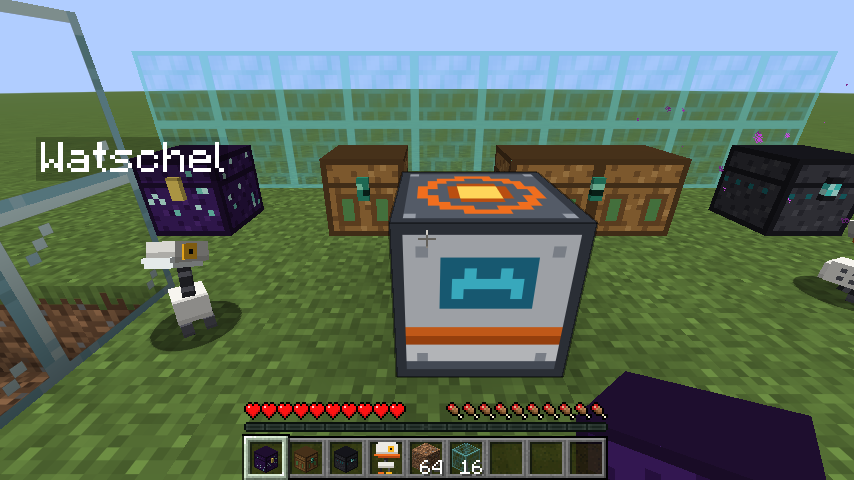
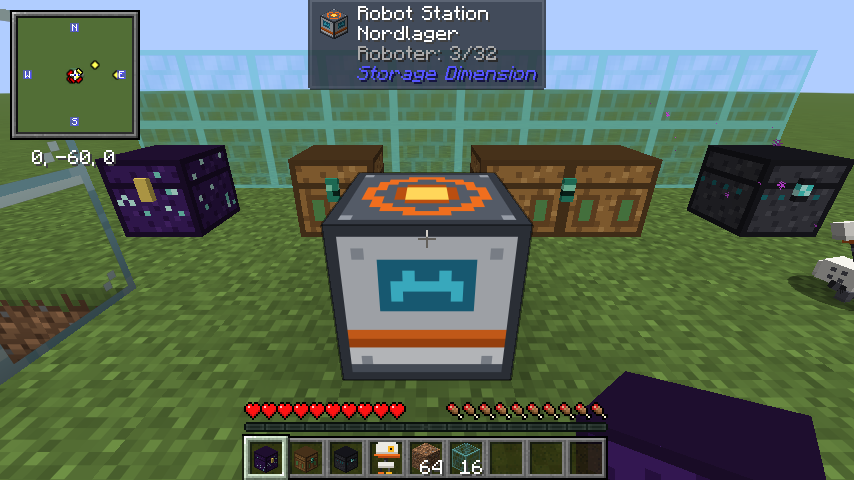
README: reorganised for 0.5.0 with table of contents, fresh screenshots, recipe table and settings
Claude-Session: https://claude.ai/code/session_01PrmjDFV55ANqJ3JywmcmfC

diff --git a/README.md b/README.md
@@ -1,135 +1,205 @@
 # Storage Dimension
 
-Ein Fabric-Mod für **Minecraft 26.1.2**. Seit Version 0.4.0 (Sammelroboter, eigene Texturen) muss `storage-dimension-*.jar` **auf dem Server und bei allen Spielern** liegen.
+Ein Fabric-Mod für **Minecraft 26.1.2**: ein gemeinsamer Lagerraum in einer eigenen Dimension, ein ME-Speicher ohne Stapelgrenzen und kleine Sammelroboter, die herumliegende Items einsammeln und einlagern.
 
-**Download:** Die fertigen Dateien gibt es unter [Releases](https://github.com/Nomisimo/Storage-Dimension/releases). Dort steht auch, welche Datei wohin gehört.
+**Aktuelle Version: 0.5.0.** Die fertigen Dateien gibt es unter [Releases](https://github.com/Nomisimo/Storage-Dimension/releases), dort steht auch, welche Datei wohin gehört.
 
 ![Dimensionskiste, Filterkiste, doppelte Filterkiste und ME-Terminal, davor der Sammelroboter](docs/screenshots/kisten-und-roboter.png)
 
-## Was der Mod macht
+## Inhalt
 
-- **Dimensionskiste:** Eine violette Kiste mit Endsternen. Wer sie öffnet und Zugriff auf den Speicher hat, wird in den Lagerraum in der Storage Dimension gezogen. Es können beliebig viele Spieler gleichzeitig drin sein. Wer keinen Zugriff hat, sieht nur ein leeres Kisten-Inventar, in dem nichts gelagert werden kann.
-- **ME-Speicher:** Die Enderkiste im Raum ist das Terminal. Dort liegen alle Items ohne Stapel- oder Slot-Grenzen. Die genaue Menge steht im Namen jedes Items (z. B. „Bruchstein × 1.234“) und in kleiner Schrift auf dem Symbol, ohne Obergrenze (ab 1.000 abgekürzt, z. B. 1k, 1.2k, 45k oder 1.2M).
-  - Linksklick nimmt einen Stapel, Rechtsklick einen halben, Shift-Klick schiebt ihn ins Inventar.
-  - Item auf dem Cursor in das Terminal klicken oder Shift-Klick im eigenen Inventar lagert ein.
-  - Unten im Fenster: **◀ / ▶** blättern, **Einlagern** lagert das ganze Inventar (ohne Hotbar) ein, daneben stehen Seite, Sorten und Gesamtmenge. Ohne die Mod auf dem Client sind es Item-Knöpfe (Pfeile, Trichter).
+- [Installation](#installation)
+- [Speicher](#speicher): Dimensionskiste, ME-Speicher, ME-Terminal, Filterkiste, Trichter und Maschinen
+- [Sammelroboter](#sammelroboter): Roboter, Roboter-Station, Rückruf, Roboter-Barriere
+- [ME-Rucksack und Traveler's Backpack](#me-rucksack-und-travelers-backpack)
+- [Rezepte](#rezepte)
+- [Befehle](#befehle)
+- [Einstellungen](#einstellungen)
+- [Selbst bauen](#selbst-bauen)
 
-  ![ME-Terminal mit Suchfeld, Sortier-Knopf und Knöpfen zum Blättern und Einlagern](docs/screenshots/terminal-knoepfe.png)
-  - **Suche und Sortierung:** Oben links im Fenster sitzt ein Suchfeld, rechts daneben der Sortier-Knopf (*Menge* / *A–Z*). Gesucht wird beim Tippen.
-  - Die Suche ist beim nächsten Öffnen wieder leer, die Sortierung bleibt.
-  - Mit [JEI](https://modrinth.com/mod/jei) sitzt zwischen Suchfeld und Sortier-Knopf ein kleiner Schalter **J**. Ist er grün, sind die Suche im Terminal und die JEI-Suchleiste gekoppelt: was in einer steht, steht auch in der anderen. Die Einstellung bleibt gespeichert (`jeiSearchSync` in `config/storagedim.json` beim Spieler).
-- **Hopper-Eingang:** Trichter, die in eine Dimensionskiste oder Filterkiste zeigen, liefern direkt in den Speicher. Zum Anbauen mit einem Item in der Hand schleichen.
-- **Maschinen anderer Mods (z. B. Tech Reborn, Advanced Reborn):** Dimensions- und Filterkisten sind über die Fabric-Transfer-API angebunden. Was eine Maschine hineinschiebt, landet direkt im ME-Speicher, und aus einer Filterkiste können Maschinen die Filter-Items herausziehen.
-- **Sammelroboter:** Ein kleiner Roboter mit Schnabel. Er sammelt herumliegende Items ein, immer einen Stapel im Schnabel, und bringt ihn zur nächsten Dimensionskiste, zum ME-Terminal oder zu einer passenden Filterkiste. Er hüpft bis zu zwei Blöcke hoch, auch über Zäune und Mauern, und stellt sich zum Aufheben direkt auf das Item. Roboter-Barrieren überspringt er nicht. Aus Booten und Loren steigt er sofort wieder aus.
-  - **Nur mit Station:** Ein Roboter lässt sich erst hinstellen, wenn er in einer Roboter-Station eingestellt wurde (siehe unten). Danach folgt er immer den Einstellungen seiner Station; was dort geändert wird, gilt sofort für alle ihre Roboter. Am Roboter selbst lässt sich nichts mehr umstellen.
-  - **Schwarm:** Mehrere Roboter stimmen sich ab. Jeder holt ein anderes Item, es rennen nie alle zum selben.
-  - **Stimmung:** Ohne Arbeit laufen die Roboter zu ihrer Station, setzen sich hin und schauen sich fröhlich um, jeder in seinem eigenen Takt. Erreicht ein Roboter seine Station nicht oder steht in seiner Reichweite keine Kiste, setzt er sich hin und schaut auf den Boden, und links und rechts von seinem Namen erscheint ein rotes 🚫 (Fehler).
-  - **Wasser:** Roboter tauchen. Unter Wasser laufen sie am Grund entlang und tragen einen Taucherhelm: einen Glaskasten um den ganzen Kopf, an der Oberfläche schwimmen sie schnell und ziehen eine Spritzspur hinter sich her. Ertrinken können sie nicht.
-  - **Regen:** Draußen ohne Dach über sich spannen sie einen kleinen Regenschirm in ihrer Farbe auf.
-  - Bevor er losläuft, plant er den ganzen Weg und folgt ihm. Gibt es keinen Weg (eingemauert, hinter einer Roboter-Barriere, über Lava), lässt er das Item sofort für eine Minute in Ruhe und nimmt das nächste. Bleibt er unterwegs trotzdem hängen, gibt er nach 5 Sekunden auf. Kisten erreicht er bis etwa drei Blöcke über dem Boden.
-  - Will er zu seiner Station und kommt 3 Minuten lang nicht näher, teleportiert er sich hin.
-  - Neu fallengelassene Items bemerkt er nach spätestens einer halben Sekunde.
-  - Schleichen + Rechtsklick mit leerer Hand nimmt ihn wieder auf, samt dem Item im Schnabel.
-  - Nur Spieler können ihm schaden. Er arbeitet nur in geladenen Chunks.
-  - Mit [Jade](https://modrinth.com/mod/jade) zeigt der Blick auf einen Roboter seine Station, Reichweite, Filter und was er gerade tut (oder welchen Fehler er hat). Mit [Xaero's Minimap](https://modrinth.com/mod/xaeros-minimap) erscheinen die Roboter mit ihrem Gesicht auf der Karte.
+## Installation
 
-  <img src="docs/screenshots/minimap-icon.png" width="64" alt="Roboter-Icon für Xaero's Minimap">
+`storage-dimension-0.5.0.jar` muss **auf dem Server und bei allen Spielern** im Ordner `mods` liegen.
 
-  ![Jade zeigt Station, Filter und Zustand eines Roboters](docs/screenshots/roboter-jade.png)
+1. Fabric Loader 0.19.5 oder neuer und [Fabric API](https://modrinth.com/mod/fabric-api) für 26.1.2 auf Server und Clients installieren.
+2. `storage-dimension-0.5.0.jar` (nicht die `-sources.jar`) in den `mods`-Ordner legen.
+3. Optional das [Traveler's-Backpack-Add-on](#me-rucksack-und-travelers-backpack) `storagedim-tb-0.5.0.jar` dazulegen, ebenfalls auf Server und Clients.
+4. Server starten. Die Dimension `storagedim:storage` wird automatisch angelegt, die Daten liegen in `world/storagedim.json`.
 
-  ![Bei Regen spannen die Roboter ihren Schirm auf](docs/screenshots/roboter-regenschirm.png)
+**Passt gut dazu (optional):** [JEI](https://modrinth.com/mod/jei) (Rezepte, Suche koppeln, „+“ im Rucksack), [Jade](https://modrinth.com/mod/jade) (Infos zu Robotern und Stationen), [Xaero's Minimap](https://modrinth.com/mod/xaeros-minimap) (Roboter auf der Karte). Getestet mit JEI 29.47.0.111, Jade 26.1.11 und Xaero's Minimap 26.6.2.
 
-  ![Ein Roboter taucht mit Glashelm](docs/screenshots/roboter-tauchen.png)
+### Als Modrinth-Pack
 
-- **Roboter-Station:** Ein Block, der Sammelroboter einstellt. Rechtsklick öffnet ein eigenes Fenster mit Knöpfen und Textfeldern:
-  - oben der **Name der Station** (erscheint auch in Jade und im Tooltip der Roboter),
-  - darunter bis zu 9 **Filter-Items** (Item draufklicken setzt, leere Hand entfernt) und der Knopf, ob die Roboter **nur den Filter** oder **alles außer dem Filter** sammeln,
-  - **Reichweite** mit − und + (1 bis 10 Chunks, gemessen ab der Station), **Farbe** (Klick schaltet weiter) und **Zurückrufen**,
-  - der **Robotername**: Bekommen mehrere Roboter denselben Namen, werden sie durchnummeriert (Quak1, Quak2 …). Das Benennen kostet keine Level.
-  - Roboter in den Eingang (links vom Pfeil) legen, er kommt rechts eingestellt wieder heraus. Die Einstellungen stehen im Tooltip des Roboter-Items.
-  - Rechts daneben steht die **Liste aller Roboter** der Station (höchstens 32) mit Entfernung und dem, was jeder gerade tut. Mausrad blättert.
-  - **Zurückrufen:** Alle Roboter der Station laufen sofort los, die Station zeigt „Rückruf: auf dem Weg“. Angekommen sind sie im 3×3-Feld um die Station (ab 21 Robotern 5×5). Teleportiert wird nur, wer keinen Weg zur Station findet. Danach sitzen alle eine Minute an der Station und arbeiten dann normal weiter. Bis dahin schauen sie den Spieler an, der sie gerufen hat.
+`storage-dimension.mrpack` liegt in jedem [Release](https://github.com/Nomisimo/Storage-Dimension/releases). Es enthält Fabric API (wird von Modrinth geladen) und die Storage-Dimension-Jar, Minecraft 26.1.2 und Fabric Loader 0.19.5 sind festgelegt. Spieler können dasselbe Pack in der Modrinth-App installieren.
 
-  ![Nach dem Rückruf schauen die Roboter den Spieler an, der gerufen hat](docs/screenshots/roboter-rueckruf-schauen.png)
-  - Ein eingestellter Roboter, der außerhalb der Reichweite seiner Station hingestellt wird, läuft zuerst zur Station und arbeitet dann los.
+- **Server-Hoster mit Modpack-Upload:** Neuen Server mit „Modpack hochladen / .mrpack“ anlegen und die Datei auswählen.
+- **Eigener Server:** Mit [mrpack-install](https://github.com/nothub/mrpack-install): `mrpack-install storage-dimension.mrpack --server-dir server`. Das lädt den Fabric-Server und Fabric API und legt die Mod ab.
 
-  ![Fenster der Roboter-Station mit Roboterliste](docs/screenshots/roboter-station-menu.png)
-
-  ![Nach dem Zurückrufen sind alle „auf dem Weg“; der eingemauerte Quak3 findet keinen Weg und zeigt 🚫, bis er sich zur Station teleportiert](docs/screenshots/roboter-station-rueckruf.png)
-
-  ![Roboter warten fröhlich an ihrer Station](docs/screenshots/roboter-station.png)
-
-  ![Ein Roboter ohne Kiste in Reichweite: 🚫 links und rechts von seinem Namen](docs/screenshots/roboter-traurig.png)
-
-- **Roboter-Barriere:** Ein durchsichtiger Plasma-Schild. Spieler, Tiere und Items gehen einfach hindurch, Sammelroboter nicht, und sie planen auch keinen Weg hindurch oder darüber. Gut für Türen und Bereiche, aus denen die Roboter nichts holen sollen. Rezept: 8 Glas um eine Amethystscherbe ergibt 8 Barrieren.
-
-  ![Roboter-Barriere als Wand hinter den Kisten](docs/screenshots/roboter-barriere.png)
-
-  ![Der Sammelroboter holt Items und bringt sie zu den Kisten](docs/screenshots/roboter-bei-der-arbeit.png)
-
-- **Werkbank und Ofen** stehen im Raum, gecraftet wird direkt in der Dimension.
-- **Gemeinsamer Speicher:** Standardmäßig teilen sich alle Spieler einen Speicher und einen Raum. Mit `"sharedStorage": false` in `config/storagedim.json` bekommt jeder seinen eigenen, der sich per `/storage teilen` freigeben lässt.
-- **Filterkiste:** Eine Kiste, die nur bis zu 7 ausgewählte Items aus dem ME-Speicher zeigt, eins pro Rahmen im Rezept. Ist ein Filter-Item verzaubert (auch ein Verzauberungsbuch), zählen nur Items mit genau denselben Verzauberungen. Zwei Filterkisten nebeneinander werden eine Doppelkiste mit 14 Filter-Plätzen (eine normale Kiste verbindet sich nie mit einer Filterkiste). Wird eine Hälfte abgebaut, behält die andere die ersten 7 Filter. Schleichen + Rechtsklick mit leerer Hand öffnet die Filter: ein Item auf einen Platz legen setzt den Filter, Klick mit leerer Hand entfernt ihn. Normaler Rechtsklick öffnet die Kiste, dort kann man die gefilterten Items herausnehmen und nur passende einlagern. Trichter, die hineinzeigen, liefern auch hier direkt in den Speicher. Ein Trichter **unter** der Filterkiste zieht die Filter-Items aus dem ME-Speicher heraus (bis zu ein Stapel pro Filter liegt dafür bereit und geht zurück in den Speicher, wenn ihn keiner abholt).
-- **ME-Terminal:** Eine uralte Kiste aus Tiefenschiefer mit Sculk-Rune. Hingestellt öffnet sie per Rechtsklick direkt den ME-Speicher, ohne Dimensionswechsel.
-- **ME-Rucksack:** Ein Rucksack, der mit dem Speicher verbunden ist und ihn von überall öffnet.
-  - **Bündel:** ME-Upgrade + Bündel in der Werkbank kombinieren. Rechtsklick öffnet den Speicher.
-  - **[Traveler's Backpack](https://www.curseforge.com/minecraft/mc-mods/travelers-backpack-fabric) (optional):** ME-Upgrade in die Zweithand, den Rucksack in die Haupthand, schleichen und rechtsklicken. Danach öffnet Schleichen + Rechtsklick mit dem Rucksack den ME-Speicher, normaler Rechtsklick weiterhin den Rucksack. Trägst du ihn auf dem Rücken, öffnet `/storage me` den Speicher. Traveler's Backpack muss dafür auf Server und Clients installiert sein.
-- **Ausgang:** Rechtsklick auf den Leuchtstein im Raum oder `/storage raus`.
+## Speicher
 
 ![Dimensionskiste, Filterkiste, ME-Terminal und Sammelroboter im Inventar](docs/screenshots/items.png)
 
+### Dimensionskiste und Lagerraum
+
+- Eine violette Kiste mit Endsternen. Wer sie öffnet und Zugriff auf den Speicher hat, wird in den Lagerraum in der Storage Dimension gezogen. Beliebig viele Spieler können gleichzeitig drin sein.
+- Wer keinen Zugriff hat, sieht nur ein leeres Kisten-Inventar, in dem nichts gelagert werden kann.
+- Im Raum stehen das ME-Terminal (die Enderkiste), eine Werkbank und ein Ofen. Gecraftet wird direkt in der Dimension.
+- Raus geht es per Rechtsklick auf den Leuchtstein im Raum oder mit `/storage raus`.
+- Standardmäßig teilen sich alle Spieler einen Speicher und einen Raum (siehe [Einstellungen](#einstellungen)).
+
+### ME-Speicher
+
+Alle Items liegen ohne Stapel- oder Slot-Grenzen im ME-Speicher. Die genaue Menge steht im Namen jedes Items (z. B. „Bruchstein × 1.234“) und in kleiner Schrift auf dem Symbol, ab 1.000 abgekürzt (1k, 1.2k, 45k, 1.2M …).
+
+- Linksklick nimmt einen Stapel, Rechtsklick einen halben, Shift-Klick schiebt ihn ins Inventar.
+- Ein Item auf dem Cursor ins Fenster klicken oder Shift-Klick im eigenen Inventar lagert ein.
+- **Oben:** Suchfeld (sucht beim Tippen, ist beim nächsten Öffnen wieder leer) und Sortier-Knopf *Menge* / *A–Z* (bleibt gespeichert). Mit JEI sitzt dazwischen der Schalter **J**: Ist er grün, sind die Suche und die JEI-Suchleiste gekoppelt.
+- **Unten:** **◀ / ▶** blättern, **Einlagern** lagert das ganze Inventar ohne Hotbar ein, daneben stehen Seite, Sorten und Gesamtmenge.
+- Ohne die Mod auf dem Client gibt es statt der Knöpfe Item-Symbole (Pfeile, Trichter, Komparator).
+
+![ME-Speicher mit Suchfeld, Sortierung und Knöpfen zum Blättern und Einlagern](docs/screenshots/terminal-knoepfe.png)
+
+### ME-Terminal
+
+Eine uralte Kiste aus Tiefenschiefer mit Sculk-Rune. Hingestellt öffnet sie per Rechtsklick direkt den ME-Speicher, ohne Dimensionswechsel.
+
+### Filterkiste
+
+Eine Kiste, die nur ausgewählte Items aus dem ME-Speicher zeigt.
+
+- **Filter einstellen:** Schleichen + Rechtsklick mit leerer Hand öffnet die Filter. Ein Item auf einen Platz legen setzt den Filter, Klick mit leerer Hand entfernt ihn. Eine Kiste hat 7 Filter-Plätze.
+- **Verzauberte Filter:** Ist ein Filter-Item verzaubert (auch ein Verzauberungsbuch), zählen nur Items mit genau denselben Verzauberungen.
+- **Benutzen:** Normaler Rechtsklick öffnet die Kiste. Dort lassen sich die gefilterten Items herausnehmen und passende einlagern.
+- **Doppelkiste:** Zwei Filterkisten nebeneinander werden eine Doppelkiste mit 14 Filter-Plätzen. Eine normale Kiste verbindet sich nie mit einer Filterkiste. Wird eine Hälfte abgebaut, behält die andere die ersten 7 Filter.
+- **Trichter darunter** ziehen die Filter-Items aus dem ME-Speicher heraus. Bis zu ein Stapel pro Filter liegt dafür bereit und geht zurück in den Speicher, wenn ihn keiner abholt.
+
+### Trichter und Maschinen
+
+- Trichter, die in eine Dimensionskiste oder Filterkiste zeigen, liefern direkt in den Speicher. Zum Anbauen mit einem Item in der Hand schleichen.
+- Maschinen anderer Mods (z. B. Tech Reborn, Advanced Reborn) sind über die Fabric-Transfer-API angebunden. Was eine Maschine in eine Dimensions- oder Filterkiste schiebt, landet im ME-Speicher, und aus einer Filterkiste können Maschinen die Filter-Items herausziehen.
+
+## Sammelroboter
+
+Ein kleiner Roboter mit Schnabel. Er sammelt herumliegende Items ein, immer einen Stapel im Schnabel, und bringt ihn zur nächsten Dimensionskiste, zum ME-Terminal oder zu einer passenden Filterkiste.
+
+![Der Sammelroboter holt Items und bringt sie zu den Kisten](docs/screenshots/roboter-bei-der-arbeit.png)
+
+### Roboter-Station
+
+Ohne Station geht nichts: Ein Roboter lässt sich erst hinstellen, wenn er in einer Roboter-Station eingestellt wurde. Danach folgt er immer den Einstellungen seiner Station. Was dort geändert wird, gilt sofort für alle ihre Roboter, am Roboter selbst lässt sich nichts umstellen.
+
+Rechtsklick auf die Station öffnet ihr Fenster:
+
+- **Name der Station** ganz oben. Er erscheint auch in Jade und im Tooltip der Roboter.
+- **Filter:** bis zu 9 Items (Item draufklicken setzt, leere Hand entfernt). Der Knopf darunter schaltet zwischen *Sammelt nur den Filter* und *Sammelt alles außer Filter*. Leer heißt: alles.
+- **Reichweite** mit − und +: 1 bis 10 Chunks, gemessen ab der Station.
+- **Farbe:** Klick schaltet weiter.
+- **Zurückrufen:** siehe unten.
+- **Robotername:** Bekommen mehrere Roboter denselben Namen, werden sie durchnummeriert (Quak1, Quak2 …). Das Benennen kostet keine Level.
+- **Roboter einstellen:** Roboter links in den Eingang legen, er kommt rechts eingestellt wieder heraus. Die Einstellungen stehen im Tooltip des Roboter-Items.
+- **Roboterliste** rechts daneben: alle Roboter der Station (höchstens 32) mit Entfernung und dem, was jeder gerade tut. Das Mausrad blättert.
+
+![Fenster der Roboter-Station mit Roboterliste](docs/screenshots/roboter-station-menu.png)
+
+Ein eingestellter Roboter, der außerhalb der Reichweite seiner Station hingestellt wird, läuft zuerst zur Station und arbeitet dann los.
+
+![Roboter-Station mit Jade-Anzeige](docs/screenshots/roboter-station.png)
+
+### Zurückrufen
+
+- Alle Roboter der Station laufen sofort los, die Station zeigt „Rückruf: auf dem Weg“.
+- Angekommen sind sie im 3×3-Feld um die Station, ab 21 Robotern im 5×5-Feld.
+- Teleportiert wird nur, wer keinen Weg zur Station findet.
+- Danach sitzen alle eine Minute an der Station und arbeiten dann normal weiter. Bis dahin schauen sie den Spieler an, der sie gerufen hat.
+
+![Nach dem Zurückrufen sind alle „auf dem Weg“; der eingemauerte Quak3 findet keinen Weg und zeigt 🚫, bis er sich zur Station teleportiert](docs/screenshots/roboter-station-rueckruf.png)
+
+![Nach dem Rückruf schauen die Roboter den Spieler an, der gerufen hat](docs/screenshots/roboter-rueckruf-schauen.png)
+
+### Wie die Roboter arbeiten
+
+- **Schwarm:** Mehrere Roboter stimmen sich ab. Jeder holt ein anderes Item, es rennen nie alle zum selben.
+- **Wege:** Bevor ein Roboter losläuft, plant er den ganzen Weg. Gibt es keinen (eingemauert, hinter einer Roboter-Barriere, über Lava), lässt er das Item eine Minute in Ruhe und nimmt das nächste. Bleibt er unterwegs hängen, gibt er nach 5 Sekunden auf. Neu fallengelassene Items bemerkt er nach spätestens einer halben Sekunde.
+- **Klettern:** Er hüpft bis zu zwei Blöcke hoch, auch über Zäune und Mauern, und stellt sich zum Aufheben direkt auf das Item. Kisten erreicht er bis etwa drei Blöcke über dem Boden. Aus Booten und Loren steigt er sofort wieder aus.
+- **Zurück zur Station:** Ohne Arbeit läuft er zu seiner Station. Kommt er dabei 3 Minuten lang nicht näher, teleportiert er sich hin.
+- **Warten:** An der Station setzt er sich hin und schaut sich fröhlich um, jeder Roboter in seinem eigenen Takt.
+- **Fehler:** Erreicht ein Roboter seine Station nicht, fehlt die Station oder steht in seiner Reichweite keine Kiste, setzt er sich hin, schaut auf den Boden, und links und rechts von seinem Namen steht ein rotes 🚫. Den Grund zeigen Jade und die Stationsliste („Fehler: Weg versperrt“, „Fehler: keine Kiste da“, „Fehler: Station fehlt“).
+- **Wasser:** Roboter tauchen. Unter Wasser laufen sie am Grund entlang und tragen einen Glashelm um den ganzen Kopf. An der Oberfläche schwimmen sie schnell und ziehen eine Spritzspur hinter sich her. Ertrinken können sie nicht.
+- **Regen:** Draußen ohne Dach über sich spannen sie einen kleinen Regenschirm in ihrer Farbe auf.
+- **Aufheben:** Schleichen + Rechtsklick mit leerer Hand nimmt einen Roboter wieder auf, samt dem Item im Schnabel.
+- Nur Spieler können Robotern schaden. Sie arbeiten nur in geladenen Chunks.
+
+![Ein Roboter ohne Kiste in Reichweite: 🚫 links und rechts von seinem Namen](docs/screenshots/roboter-traurig.png)
+
+![Ein Roboter taucht mit Glashelm](docs/screenshots/roboter-tauchen.png)
+
+![Bei Regen spannen die Roboter ihren Schirm auf](docs/screenshots/roboter-regenschirm.png)
+
+### Jade und Xaero's Minimap
+
+Mit [Jade](https://modrinth.com/mod/jade) zeigt der Blick auf einen Roboter seine Station, Reichweite, Filter und was er gerade tut (oder welchen Fehler er hat). Der Blick auf eine Station zeigt ihren Namen und wie viele Roboter zu ihr gehören. Mit [Xaero's Minimap](https://modrinth.com/mod/xaeros-minimap) erscheinen die Roboter mit ihrem Gesicht auf der Karte.
+
+![Jade zeigt Station, Filter und Zustand eines Roboters](docs/screenshots/roboter-jade.png)
+
+<img src="docs/screenshots/minimap-icon.png" width="64" alt="Roboter-Icon für Xaero's Minimap">
+
+### Roboter-Barriere
+
+Ein durchsichtiger Plasma-Schild. Spieler, Tiere und Items gehen einfach hindurch, Sammelroboter nicht, und sie planen auch keinen Weg hindurch oder darüber. Gut für Türen und Bereiche, aus denen die Roboter nichts holen sollen.
+
+![Roboter-Barriere als Wand hinter den Kisten](docs/screenshots/roboter-barriere.png)
+
+## ME-Rucksack und Traveler's Backpack
+
+Ein Rucksack, der mit dem Speicher verbunden ist und ihn von überall öffnet.
+
+- **Bündel:** ME-Upgrade + Bündel in der Werkbank kombinieren. Rechtsklick öffnet den Speicher.
+- **[Traveler's Backpack](https://modrinth.com/mod/travelersbackpack) ohne Add-on:** ME-Upgrade in die Zweithand, den Rucksack in die Haupthand, schleichen und rechtsklicken. Danach öffnet Schleichen + Rechtsklick mit dem Rucksack den ME-Speicher, normaler Rechtsklick weiterhin den Rucksack. Trägst du ihn auf dem Rücken, öffnet `/storage me` den Speicher.
+
+### Traveler's-Backpack-Add-on
+
+Das Add-on `storagedim-tb-0.5.0.jar` fügt ein echtes **ME-Upgrade** für den Upgrade-Slot von Traveler's Backpack hinzu. Es hat immer dieselbe Versionsnummer wie Storage Dimension.
+
+- **Rezept** (formlos): Leeres Upgrade (Traveler's Backpack), Enderauge, 2× Amethystscherbe, Redstoneblock. Mit dem Add-on ergibt auch das normale ME-Upgrade-Rezept (mit Papier) dieses Upgrade. Es passt in den Upgrade-Slot und macht mit einem Bündel auch einen ME-Rucksack.
+- **ME-Ansicht:** Upgrade in einen Upgrade-Slot legen. Linksklick auf das ME-Symbol zeigt den ME-Speicher direkt im Rucksack-Fenster an Stelle des Rucksack-Inhalts. Crafting und die anderen Upgrades bleiben daneben. Ein zweiter Linksklick zeigt wieder den Rucksack, Rechtsklick nimmt das Upgrade heraus.
+- Die ME-Ansicht ist aufgebaut wie der ME-Speicher: oben eine graue Leiste mit Suchfeld, **J**-Schalter und Sortierung, unten ◀ / ▶, **Einlagern** sowie Seite, Sorten und Gesamtmenge. Die Knöpfe des Rucksacks sind in der ME-Ansicht ausgeblendet. Klicks funktionieren wie im ME-Speicher.
+- Der Rucksack muss nicht in der Hand sein: auf dem Rücken tragen und mit der Rucksack-Taste (Standard **B**) öffnen reicht.
+- **Crafting aus dem ME-Speicher:** Hat der Rucksack zusätzlich das Crafting-Upgrade, holt der „+“-Knopf von JEI fehlende Zutaten auch aus dem ME-Speicher, genauso wie aus Inventar und Rucksack. „+“ ist nur grün, wenn alle Zutaten zusammen vorhanden sind, sonst markiert JEI die fehlenden rot. Shift + „+“ füllt das Raster für so viele Durchgänge wie möglich (bis zu einem Stapel). Was vorher im Raster lag, kommt zurück ins Inventar oder, wenn das voll ist, in den Speicher.
+- Der kleine Schalter neben dem ME-Symbol stellt zwischen *ME als Quelle* (Standard) und *nur Inventar* um.
+- **Installation:** `storagedim-tb-0.5.0.jar` und `storage-dimension-0.5.0.jar` auf Server und Clients, dazu Traveler's Backpack, [Forge Config API Port](https://modrinth.com/mod/forge-config-api-port) und Fabric API. JEI wird nur für „+“ und die Rezeptanzeige gebraucht.
+
+![ME-Ansicht im Rucksack mit Suchleiste, Sortierung und Knöpfen wie im ME-Speicher](docs/screenshots/rucksack-me-suche.png)
+
+![ME-Speicher im Rucksack-Fenster, daneben das Crafting-Upgrade](docs/screenshots/rucksack-me-ansicht.png)
+
 ## Rezepte
 
-Dimensionskiste (A = Amethystscherbe, P = Enderperle, C = Kiste):
-
-![Rezept Dimensionskiste](docs/screenshots/rezept-storage-chest.png)
-
-ME-Terminal (R = Redstone, A = Amethystscherbe, E = Enderkiste):
-
-![Rezept ME-Terminal](docs/screenshots/rezept-me-terminal.png)
-
-Filterkiste (8× Rahmen um eine Kiste, unten mittig ein Enderauge):
-
-![Rezept Filterkiste](docs/screenshots/rezept-filter-chest.png)
-
-Sammelroboter (Eisenbarren, Kürbis, Redstone, Trichter, Eisennuggets):
-
-![Rezept Sammelroboter](docs/screenshots/rezept-robot.png)
-
-ME-Upgrade (formlos: Enderauge, 2× Amethystscherbe, Redstoneblock, Papier):
-
-![Rezept ME-Upgrade](docs/screenshots/rezept-me-upgrade.png)
-
-ME-Rucksack (formlos: beliebiges Bündel + ME-Upgrade):
-
-![Rezept ME-Rucksack](docs/screenshots/rezept-me-backpack.png)
-
-Roboter-Barriere (8 Glas um eine Amethystscherbe, ergibt 8):
-
-![Rezept Roboter-Barriere](docs/screenshots/rezept-robot-barrier.png)
-
-Roboter-Station (Blitzableiter, Eisenbarren, Redstoneblock, Kiste):
-
-![Rezept Roboter-Station](docs/screenshots/rezept-robot-station.png)
-
-ME-Upgrade mit dem Traveler's-Backpack-Add-on (formlos: Leeres Upgrade, Enderauge, 2× Amethystscherbe, Redstoneblock):
-
-![Rezept ME-Upgrade für Traveler's Backpack](docs/screenshots/rezept-tb-me-upgrade.png)
-
 Alle Rezepte stehen auch in [JEI](https://modrinth.com/mod/jei).
+
+| Item | Zutaten | Rezept |
+| --- | --- | --- |
+| Dimensionskiste | Amethystscherben, Enderperlen, Kiste | ![Rezept Dimensionskiste](docs/screenshots/rezept-storage-chest.png) |
+| ME-Terminal | Redstone, Amethystscherben, Enderkiste | ![Rezept ME-Terminal](docs/screenshots/rezept-me-terminal.png) |
+| Filterkiste | 8 Rahmen um eine Kiste, unten mittig ein Enderauge | ![Rezept Filterkiste](docs/screenshots/rezept-filter-chest.png) |
+| Sammelroboter | Eisenbarren, Kürbis, Redstone, Trichter, Eisennuggets | ![Rezept Sammelroboter](docs/screenshots/rezept-robot.png) |
+| Roboter-Station | Blitzableiter, Eisenbarren, Redstoneblock, Kiste | ![Rezept Roboter-Station](docs/screenshots/rezept-robot-station.png) |
+| Roboter-Barriere (8 Stück) | 8 Glas um eine Amethystscherbe | ![Rezept Roboter-Barriere](docs/screenshots/rezept-robot-barrier.png) |
+| ME-Upgrade | formlos: Enderauge, 2× Amethystscherbe, Redstoneblock, Papier | ![Rezept ME-Upgrade](docs/screenshots/rezept-me-upgrade.png) |
+| ME-Rucksack | formlos: beliebiges Bündel + ME-Upgrade | ![Rezept ME-Rucksack](docs/screenshots/rezept-me-backpack.png) |
+| ME-Upgrade (Add-on) | formlos: Leeres Upgrade, Enderauge, 2× Amethystscherbe, Redstoneblock | ![Rezept ME-Upgrade für Traveler's Backpack](docs/screenshots/rezept-tb-me-upgrade.png) |
 
 ## Befehle
 
 | Befehl | Wirkung |
 | --- | --- |
 | `/storage` | Infos zum eigenen Speicher |
+| `/storage raus` | Verlässt den Lagerraum |
+| `/storage me` | Öffnet den ME-Speicher, wenn du einen ME-Rucksack trägst oder dabeihast |
 | `/storage teilen <spieler>` | Lädt jemanden in deinen Speicher ein (nur ohne gemeinsamen Speicher) |
 | `/storage annehmen` | Nimmt eine Einladung an. Dein eigener Speicher bleibt erhalten. |
 | `/storage verlassen` | Zurück zum eigenen Speicher |
 | `/storage entfernen <spieler>` | Wirft ein Mitglied raus |
 | `/storage kiste besitzer <spieler>` | Danach eine eigene Dimensionskiste anklicken, um sie jemandem zu übertragen |
-| `/storage raus` | Verlässt den Lagerraum |
-| `/storage me` | Öffnet den ME-Speicher, wenn du einen ME-Rucksack trägst oder dabeihast |
 | `/storage give [spieler]` | (OP) Gibt eine Dimensionskiste |
 | `/storage give terminal` | (OP) Gibt ein ME-Terminal |
 | `/storage give filter` | (OP) Gibt eine Filterkiste |
@@ -137,7 +207,16 @@ Alle Rezepte stehen auch in [JEI](https://modrinth.com/mod/jei).
 | `/storage give station` | (OP) Gibt eine Roboter-Station |
 | `/storage give barrier` | (OP) Gibt 16 Roboter-Barrieren |
 
-## Bauen
+## Einstellungen
+
+In `config/storagedim.json`:
+
+| Einstellung | Standard | Wirkung |
+| --- | --- | --- |
+| `sharedStorage` | `true` | Alle Spieler teilen sich einen Speicher und einen Raum. Mit `false` bekommt jeder seinen eigenen, der sich per `/storage teilen` freigeben lässt (auf dem Server). |
+| `jeiSearchSync` | `false` | Schalter **J**: Suche im ME-Speicher mit der JEI-Suchleiste koppeln (beim Spieler, lässt sich im Fenster umschalten). |
+
+## Selbst bauen
 
 Java 25 wird benötigt.
 
@@ -146,36 +225,4 @@ cd storage-dimension
 ./gradlew build
 ```
 
-Die fertige Datei liegt in `storage-dimension/build/libs/`. GitHub Actions baut bei jedem Push automatisch und legt die Jars auf den Branch `builds`. Ein Release mit Anleitung entsteht per Hand unter *Actions → release → Run workflow*.
-
-## Installation
-
-1. Fabric Loader 0.19.5 oder neuer und Fabric API für 26.1.2 auf dem Server und bei allen Spielern installieren.
-2. Die `storage-dimension-*.jar` (nicht die `-sources.jar`) auf dem Server und bei allen Spielern in den `mods`-Ordner legen.
-3. Server starten. Die Dimension `storagedim:storage` wird automatisch angelegt.
-
-Die Daten liegen in `world/storagedim.json`.
-
-### Traveler's-Backpack-Add-on (optional)
-
-Im Ordner `storagedim-tb/` liegt ein kleiner Zusatz-Mod. Er fügt ein echtes **ME-Upgrade** für den Upgrade-Slot von Traveler's Backpack hinzu.
-
-- Rezept (formlos): Leeres Upgrade (Traveler's Backpack), Enderauge, 2× Amethystscherbe, Redstoneblock. Mit dem Zusatz-Mod ergibt auch das normale ME-Upgrade-Rezept (mit Papier) dieses Upgrade. Es gibt dann nur noch ein ME-Upgrade: Es passt in den Upgrade-Slot und macht mit einem Bündel auch einen ME-Rucksack.
-- Upgrade in einen Upgrade-Slot des Rucksacks legen. Linksklick auf das ME-Symbol im Rucksack-Fenster zeigt den ME-Speicher **direkt im Rucksack-Fenster**, an Stelle des Rucksack-Inhalts. Crafting, die anderen Upgrades und die Einstellungen bleiben daneben sichtbar. Ein zweiter Linksklick zeigt wieder den Rucksack. Rechtsklick nimmt das Upgrade heraus.
-  - In der ME-Ansicht: Linksklick nimmt einen Stapel, Rechtsklick einen halben, Shift-Klick schiebt ihn ins Inventar. Ein Item vom Cursor oder Shift-Klick im eigenen Inventar lagert ein. Die Ansicht ist aufgebaut wie die ME-Kiste: Über dem Fenster liegt eine graue Leiste mit Suchfeld, „J“-Schalter (Suche an JEI koppeln) und Sortierung (Menge / A–Z). Unten sitzen ◀ und ▶ zum Blättern, „Einlagern“ (ganzes Inventar ohne Hotbar in den Speicher) sowie Seite, Sorten und Gesamtmenge. Die Sortier-Knöpfe des Rucksacks sind in der ME-Ansicht ausgeblendet.
-
-  ![ME-Ansicht im Rucksack mit Suchleiste, Sortierung und Knöpfen wie in der ME-Kiste](docs/screenshots/rucksack-me-suche.png)
-
-  ![ME-Speicher im Rucksack-Fenster, daneben das Crafting-Upgrade](docs/screenshots/rucksack-me-ansicht.png)
-
-- Der Rucksack muss nicht in der Hand sein: auf dem Rücken tragen und mit der Rucksack-Taste von Traveler's Backpack (Standard **B**) öffnen reicht.
-- **Crafting aus dem ME-Speicher:** Hat der Rucksack zusätzlich das Crafting-Upgrade, holt der „+“-Knopf von [JEI](https://modrinth.com/mod/jei) fehlende Zutaten auch aus dem ME-Speicher, genauso wie aus Inventar und Rucksack. „+“ ist nur grün, wenn alle Zutaten zusammen vorhanden sind, sonst markiert JEI die fehlenden rot. Shift + „+“ füllt das Raster für so viele Durchgänge wie möglich (bis zu einem Stapel). Was vorher im Raster lag, kommt zurück ins Inventar oder, wenn das voll ist, in den Speicher.
-  - Der kleine Schalter neben dem ME-Symbol stellt zwischen *ME als Quelle* (Standard) und *nur Inventar* um. Auf *nur Inventar* arbeitet „+“ wie ohne Upgrade.
-- Installation: `storagedim-tb-*.jar` und `storage-dimension-*.jar` **auf dem Server und bei allen Spielern**, zusammen mit Traveler's Backpack (und dessen Abhängigkeiten) und Fabric API. JEI wird nur für „+“ und die Rezeptanzeige gebraucht und reicht bei den Spielern.
-
-### Als Modrinth-Pack
-
-`storage-dimension.mrpack` liegt in jedem [Release](https://github.com/Nomisimo/Storage-Dimension/releases). Das Pack enthält Fabric API (wird von Modrinth geladen) und die Storage-Dimension-Jar. Minecraft 26.1.2 und Fabric Loader 0.19.5 sind darin festgelegt. Spieler können dasselbe Pack in der Modrinth-App installieren.
-
-- **Server-Hoster mit Modpack-Upload:** Neuen Server mit „Modpack hochladen / .mrpack“ anlegen und die Datei auswählen.
-- **Eigener Server:** Mit [mrpack-install](https://github.com/nothub/mrpack-install): `mrpack-install storage-dimension.mrpack --server-dir server`. Das lädt Fabric-Server, Fabric API und legt die Mod ab.
+Die fertige Datei liegt in `storage-dimension/build/libs/`. GitHub Actions baut bei jedem Push automatisch, macht Test-Screenshots im echten Spiel und legt die Jars auf den Branch `builds`. Ein Release entsteht per Hand unter *Actions → Release → Run workflow*.
